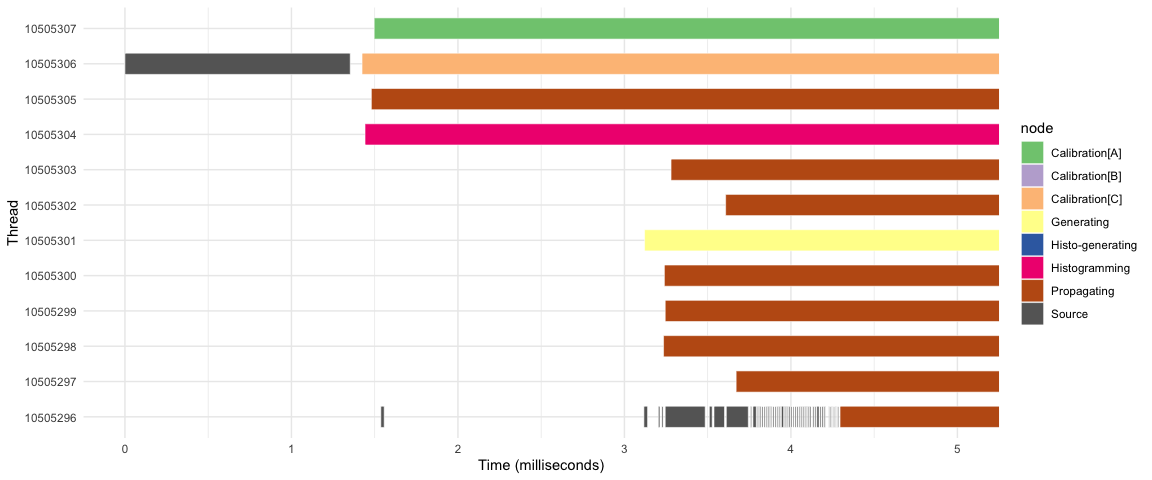
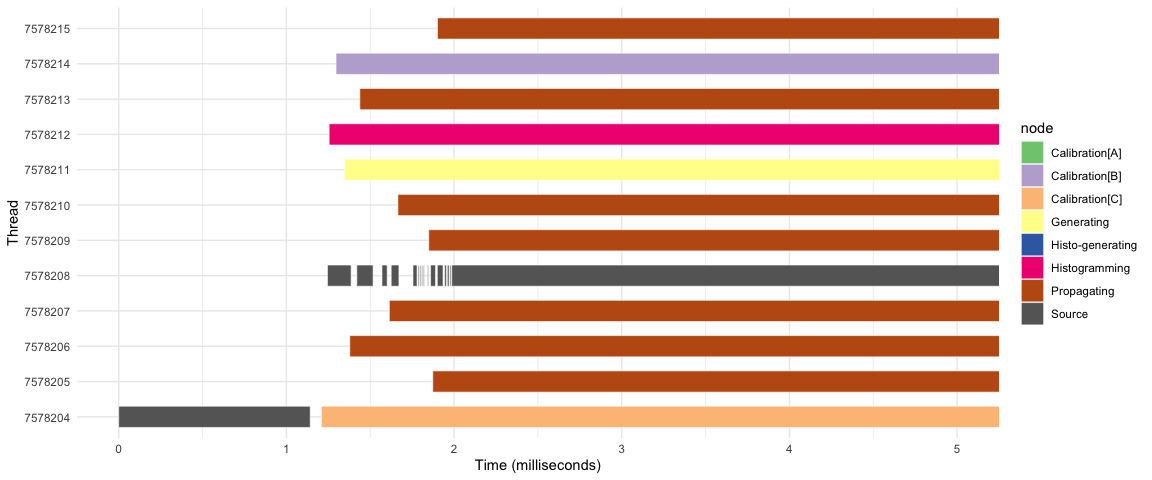
Final version of analysis before move to oneTBB repository

diff --git a/analysis/serial_node_timing.md b/analysis/serial_node_timing.md
@@ -31,17 +31,30 @@ This document provides some analysis of the timing performance of the
   *Calibration\[B\]*, and *Calibration\[C\]*. Each of these nodes
   requires sole access to a *DB* token. There are two *DB* tokens
   available. *DB* tokens have an associated integer ID; the values are 1
-  and 13.
+  and 13. *Calibration\[A\]* and *Calibration\[B\]* have unlimited
+  concurrency but *Calibration\[C\]* is serial. This means that, at the
+  same time, we can have:
+  - two *Calibration\[A\]* tasks running, or
+  - two *Calibration\[B\]* tasks running, or
+  - one *Calibration\[A\]* task running and one *Calibration\[B\]* task
+    running, or
+  - one *Calibration\[A\]* task running and one *Calibration\[C\]* task
+    running, or
+  - one *Calibration\[B\]* task running and one *Calibration\[C\]* task
+    running.
+
+  But we can not have two *Calibration\[C\]* tasks running at the same
+  time.
 
 The *Source* node is directly connected to each of the other nodes.
 There are no other connections between nodes. The tasks performed by the
 system is the generation of the messages and the processing of each
 message by all the other nodes in the system.
 
-Each time a node is fired, we record two events. The *Start* event is
+Each time a node is fired, we record two events. A *Start* event is
 recorded as the first thing done within the body of the node. The node
 then performs whatever work it is to do (for all but the *Source*, this
-is a busy loop for some fixed time). The *Stop* event is recorded as the
+is a busy loop for some fixed time). A *Stop* event is recorded as the
 last thing done within the body of the node. For each event, we record
 the *thread* on which the event occurred, the *node* that was executing,
 the *message* number, and the extra *data* associated with the event.
@@ -65,32 +78,33 @@ Table 1: First few rows of the `tasks` data frame.
 
 <div class="cell-output-display">
 
-| thread   | node             | message | data | Start |    Stop | duration |
-|:---------|:-----------------|--------:|-----:|------:|--------:|---------:|
-| 10505306 | Source           |       1 |    0 | 0.000 |   1.353 |    1.353 |
-| 10505306 | Calibration\[C\] |       1 |    1 | 1.424 |  11.454 |   10.030 |
-| 10505304 | Histogramming    |       1 |    0 | 1.442 |  11.463 |   10.021 |
-| 10505305 | Propagating      |       1 |    0 | 1.480 | 151.505 |  150.025 |
-| 10505307 | Calibration\[A\] |       1 |   13 | 1.497 |  11.580 |   10.083 |
-| 10505296 | Source           |       2 |    0 | 1.537 |   1.557 |    0.020 |
-| 10505296 | Source           |       3 |    0 | 3.117 |   3.139 |    0.022 |
-| 10505301 | Generating       |       1 |    0 | 3.121 |  13.167 |   10.046 |
-| 10505296 | Source           |       4 |    0 | 3.204 |   3.213 |    0.009 |
-| 10505296 | Source           |       5 |    0 | 3.225 |   3.232 |    0.007 |
-| 10505298 | Propagating      |       2 |    0 | 3.235 | 153.306 |  150.071 |
-| 10505300 | Propagating      |       3 |    0 | 3.240 | 153.258 |  150.018 |
+| thread  | node             | message | data | Start |    Stop | duration |
+|:--------|:-----------------|--------:|-----:|------:|--------:|---------:|
+| 7578204 | Source           |       1 |    0 | 0.000 |   1.142 |    1.142 |
+| 7578204 | Calibration\[C\] |       1 |    1 | 1.209 |  11.244 |   10.035 |
+| 7578208 | Source           |       2 |    0 | 1.245 |   1.386 |    0.141 |
+| 7578212 | Histogramming    |       1 |    0 | 1.255 |  11.292 |   10.037 |
+| 7578214 | Calibration\[B\] |       1 |   13 | 1.296 |  11.327 |   10.031 |
+| 7578211 | Generating       |       1 |    0 | 1.346 |  11.764 |   10.418 |
+| 7578206 | Propagating      |       1 |    0 | 1.378 | 151.434 |  150.056 |
+| 7578208 | Source           |       3 |    0 | 1.420 |   1.517 |    0.097 |
+| 7578213 | Propagating      |       2 |    0 | 1.438 | 151.463 |  150.025 |
+| 7578208 | Source           |       4 |    0 | 1.570 |   1.601 |    0.031 |
+| 7578207 | Propagating      |       3 |    0 | 1.614 | 151.638 |  150.024 |
+| 7578208 | Source           |       5 |    0 | 1.625 |   1.671 |    0.046 |
 
 </div>
 
 </div>
 
-The graph was executed with 50 messages, on a 12-core Mac laptop.
+The graph was executed with 50 messages, on a 12-core MacBook Pro laptop
+with an Apple M2 Max chip.
 
 ## Analysis of thread occupancy
 
 Our main concern is to understand what the threads are doing, and to see
 if the hardware is being used efficiently. By “efficiently”, we mean
-that the threads are busy doing useful work — i.e., running our tasks.
+that the threads are busy doing useful work—i.e., running our tasks.
 <a href="#fig-thread-busy" class="quarto-xref">Fig. 1</a> shows the
 timeline of task execution for each thread.
 
@@ -99,7 +113,8 @@ timeline of task execution for each thread.
 ![](serial_node_timing_files/figure-commonmark/fig-thread-busy-1.png)
 
 Figure 1: Task execution timeline, showing when each thread is busy and
-what it is doing. This workflow was run on a 12-core Mac laptop.
+what it is doing. This workflow was run on a 12-core laptop, using 12
+threads.
 
 </div>
 
@@ -123,17 +138,18 @@ Figure 2: Task execution timeline, showing the startup of the program.
 We can see that the *Source* is firing many times, and with a wide
 spread of durations. We also see that the *Source* is serialized, as
 expected for an input node. There is some small idle time after the
-first firing of the *Source*, and a considerable delay after the second
-firing. After the first firing, all the activity for the *Source* moves
-to a different thread. There are some idle times between source firings
-that we do not understand.
+first firing of the *Source*, and a addtional delays after the next few
+firings. After the first firing, all the activity for the *Source* moves
+to a different thread. We do not understand the cause of the delays
+between source firings, or the range of durations of the *Source* tasks.
 
 In <a href="#fig-program-start-after-first"
 class="quarto-xref">Figure 3</a>, we can zoom in further to see what is
 happening after the first firing of the *Source*. There are delays
 between the creation of a message by the *Source* and the start of the
 processing of that message by one of the other nodes, and that delay is
-variable.
+variable. In this plot we see that it is message 17 that has an enormous
+duration for the *Source* task: 4.889 ms.
 
 <div id="fig-program-start-after-first">
 
@@ -148,7 +164,11 @@ number being processed by the task.
 We can also zoom in on the program wind-down, as shown in
 <a href="#fig-program-wind-down" class="quarto-xref">Figure 4</a>. Here
 it appears we have some idle threads because there is insufficient work
-to be done. We do not see any sign of unexploited parallelism.
+to be done. We also see the effect of the serial constraint on the
+*Calibration\[C\]* node. While *Calibration\[A\]* and *Calibration\[B\]*
+can run simultaneously on two threads, which we see in the last part of
+the plot, we see that *Calibration\[C\]* is only running on one thread
+at a time. We do not see any sign of unexploited parallelism.
 
 <div id="fig-program-wind-down">
 
@@ -162,9 +182,10 @@ source firing.
 ## Looking on at calibrations
 
 Flowgraph seem to prefer keeping some tasks on a single thread. All of
-the *Histo-generating* tasks were run on a single thread. The
-calibrations are clustered onto a subset of threads, and are not
-distributed evenly across those threads. This is shown in
+the *Histo-generating* tasks were run on the same thread. The same is
+true for *Generating* and *Histogramming* tasks. The calibrations are
+clustered onto a subset of threads, and are not distributed evenly
+across those threads. This is shown in
 <a href="#tbl-calibrations" class="quarto-xref">Table 2</a>.
 
 <div id="tbl-calibrations">
@@ -173,22 +194,24 @@ Table 2: Number of calibrations of each type done by each thread.
 
 <div class="cell-output-display">
 
-| thread   | node             |   n |
-|:---------|:-----------------|----:|
-| 10505296 | Calibration\[B\] |   1 |
-| 10505297 | Calibration\[A\] |  17 |
-| 10505297 | Calibration\[C\] |  14 |
-| 10505299 | Calibration\[A\] |  25 |
-| 10505299 | Calibration\[B\] |   5 |
-| 10505299 | Calibration\[C\] |  30 |
-| 10505302 | Calibration\[B\] |   2 |
-| 10505305 | Calibration\[C\] |   1 |
-| 10505306 | Calibration\[A\] |   5 |
-| 10505306 | Calibration\[B\] |  40 |
-| 10505306 | Calibration\[C\] |   4 |
-| 10505307 | Calibration\[A\] |   3 |
-| 10505307 | Calibration\[B\] |   2 |
-| 10505307 | Calibration\[C\] |   1 |
+| thread  | node             |   n |
+|:--------|:-----------------|----:|
+| 7578204 | Calibration\[A\] |   8 |
+| 7578204 | Calibration\[B\] |  28 |
+| 7578204 | Calibration\[C\] |  27 |
+| 7578205 | Calibration\[A\] |   4 |
+| 7578205 | Calibration\[B\] |  14 |
+| 7578205 | Calibration\[C\] |  17 |
+| 7578206 | Calibration\[B\] |   1 |
+| 7578206 | Calibration\[C\] |   1 |
+| 7578207 | Calibration\[A\] |  10 |
+| 7578207 | Calibration\[B\] |   3 |
+| 7578207 | Calibration\[C\] |   3 |
+| 7578214 | Calibration\[A\] |   1 |
+| 7578214 | Calibration\[B\] |   1 |
+| 7578215 | Calibration\[A\] |  27 |
+| 7578215 | Calibration\[B\] |   3 |
+| 7578215 | Calibration\[C\] |   2 |
 
 </div>
 
@@ -265,9 +288,9 @@ Table 3: Details of the delays longer than 1 millisecond.
 
 | thread | node | message | data | Start | Stop | duration | delay | before | same |
 |:---|:---|---:|---:|---:|---:|---:|---:|:---|:---|
-| 10505296 | Source | 3 | 0 | 3.117 | 3.139 | 0.022 | 1.560 | Source | TRUE |
-| 10505299 | Calibration\[B\] | 49 | 13 | 629.275 | 639.281 | 10.006 | 2.468 | Calibration\[B\] | TRUE |
-| 10505301 | Histo-generating | 13 | 0 | 626.827 | 636.832 | 10.005 | 1.000 | Histo-generating | TRUE |
+| 7578204 | Calibration\[C\] | 43 | 1 | 955.154 | 965.164 | 10.010 | 140.029 | Propagating | FALSE |
+| 7578205 | Propagating | 29 | 0 | 453.642 | 603.658 | 150.016 | 1.544 | Propagating | TRUE |
+| 7578215 | Propagating | 37 | 0 | 603.757 | 753.760 | 150.003 | 1.567 | Propagating | TRUE |
 
 </div>
 
